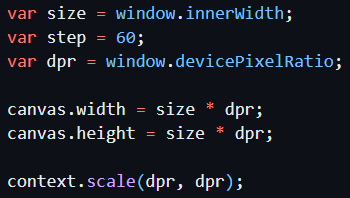
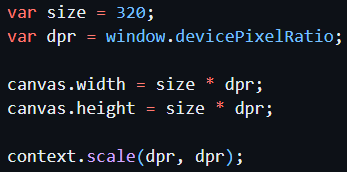
added more explanation of code

diff --git a/art/maze/maze.html b/art/maze/maze.html
@@ -21,7 +21,8 @@
               href="https://generativeartistry.com/tutorials/tiled-lines/"
               target="_blank"
               >tiled lines tutorial</a
-            >. This is my first time using HTML's canvas tag and first
+            >; however, I made some adjustments to the canvas size and line
+            width. This is my first time using HTML's canvas tag and first
             introduction to generative art. I recommend reading through the
             tutorial to best understand how this works, but I'll write my own
             explanation below to try to consolidate my own understanding.
@@ -40,7 +41,7 @@
               target="_blank"
               >HTMLCanvasElement.getContext()</a
             >
-            returns a drawing context on the canvas. d" creates a
+            returns a drawing context on the canvas. This creates a
             CanvasRenderingContext2D object representing a two-dimensional
             rendering context, provides access to a bunch of methods via the
             CanvasRenderingContext2D prototype. This includes methods such as
@@ -52,20 +53,80 @@
             alt="Code for getting the canvas context."
           />
           <p>
-            To understand the above code, I think it's best to outline some
+            To understand the above code, I think it's helpful to outline some
             technical terminology.
           </p>
           <ul>
             <li>
               <em>Logical pixels</em>: These are also referred to as CSS pixels.
-              On most screens, one logical pixel corresponds to one physical
-              pixel, however, some high-density screens use multiple physical
-              pixels to represent a single logical pixel.
+              They don't have any inherent physical dimensions. On most screens,
+              one logical pixel corresponds to one physical pixel; however, some
+              high-density screens use multiple physical pixels to represent a
+              single logical pixel.
             </li>
-            <li><em>Physical pixels</em></li>
-            <li><em>PPI</em></li>
-            <li><em>Resolution</em></li>
+            <li>
+              <em>Physical pixels</em>: These are the actual physical pixels on
+              a given device. As above, one or more physical pixels might make
+              up a logical pixel.
+            </li>
+            <li>
+              <em>PPI</em>: Pixels per inch measures the
+              <strong>pixel density</strong> on an electronic device.
+            </li>
+            <li>
+              <em>DPR</em>: Device pixel ratio is the ratio between the
+              <strong>physical pixel density</strong> of a device and its
+              <strong>logical pixel density</strong>. The higher the DPR, the
+              more physical pixels representing logical pixels.
+            </li>
+
+            <li>
+              <em>Screen resolution</em>: This is the number of
+              <strong>physical pixels</strong> in the display, typically quoted
+              as width x height.
+            </li>
+            <li>
+              <em>Viewport resolution</em>: This is the number of
+              <strong>logical pixels</strong> in the display, typically quoted
+              as width x height.
+            </li>
           </ul>
+
+          <p>
+            So with the above terminology in mind, multiplying size and DPR
+            gives us the actual canvas width and height in physical pixels,
+            rather than the 320 logical CSS pixels.
+          </p>
+          <p>
+            By default, one unit on a canvas is one pixel. Scaling based on DPR
+            will then adjust the units based on the DPR, so one unit will be one
+            physical pixel.
+          </p>
+          <h3>Examples</h3>
+          <p>
+            In the original tutorial, the size is given by the window inner
+            width, but I found this results in a very different appearance of
+            the maze on mobile vs desktop, so I chose to use the fixed size of
+            320 to match the logical CSS pixels. If you look at their CodePen,
+            they've actually done the same there.
+          </p>
+          <p>
+            On my desktop monitor, the DPR is 1. The size is 320. So my canvas
+            width and height are 320 physical pixels. One unit in the canvas
+            will be one physical pixel.
+          </p>
+          <p>
+            On my mobile, the DPR is 2.73. The size is 320. So my canvas width
+            and height are approximately 874 physical pixels. One unit in the
+            canvas will be 2.73 physical pixels.
+          </p>
+          <h3>Drawing</h3>
+          <p>Finally, we can look at the code that draws the maze.</p>
+          <img
+            class="code"
+            src="./Drawing.PNG"
+            alt="Code that draws the maze on the canvas."
+          />
         </div>
       </div>
     </section>

diff --git a/art/maze/maze.js b/art/maze/maze.js
@@ -1,8 +1,7 @@
 var canvas = document.getElementById("maze");
 var context = canvas.getContext("2d");
 
-var size = window.innerWidth;
-var step = 60;
+var size = 320;
 var dpr = window.devicePixelRatio;
 
 canvas.width = size * dpr;
@@ -11,7 +10,9 @@ canvas.height = size * dpr;
 context.scale(dpr, dpr);
 
 context.lineCap = "square";
-context.lineWidth = 8;
+context.lineWidth = 1;
+
+var step = 15;
 
 function draw(x, y, width, height) {
   var leftToRight = Math.random() >= 0.5;
@@ -34,5 +35,6 @@ for (var x = 0; x < size; x += step) {
 }
 
 console.log("dpr", dpr);
-console.log("canvas width", size * dpr);
 console.log("size", size);
+console.log("canvas width", size * dpr);
+console.log("size 2", size);

diff --git a/styles.css b/styles.css
@@ -50,21 +50,6 @@ canvas {
   color: black;
 }
 
-.overlay {
-  position: absolute;
-  top: 0;
-  left: 0;
-  width: 100%;
-  height: 100%;
-  background-color: rgba(255, 255, 255, 0.5);
-  color: black;
-  display: flex;
-  justify-content: center;
-  align-items: center;
-  opacity: 1; /* Initially hidden */
-  transition: opacity 0.3s ease;
-}
-
 .art-title {
   text-align: center;
   margin-bottom: 40px;
@@ -82,6 +67,7 @@ canvas {
   display: flex;
   flex-direction: column;
   justify-content: center;
+  padding: 10px;
 }
 
 .code {

diff --git a/index.html b/index.html
@@ -49,6 +49,7 @@
       var link = document.createElement("a");
       link.className = "link";
       link.innerHTML = file[scriptName];
+
       link.href = `art/${scriptName}/${scriptName}.html`;
 
       // Create canvas with id = canvas name
